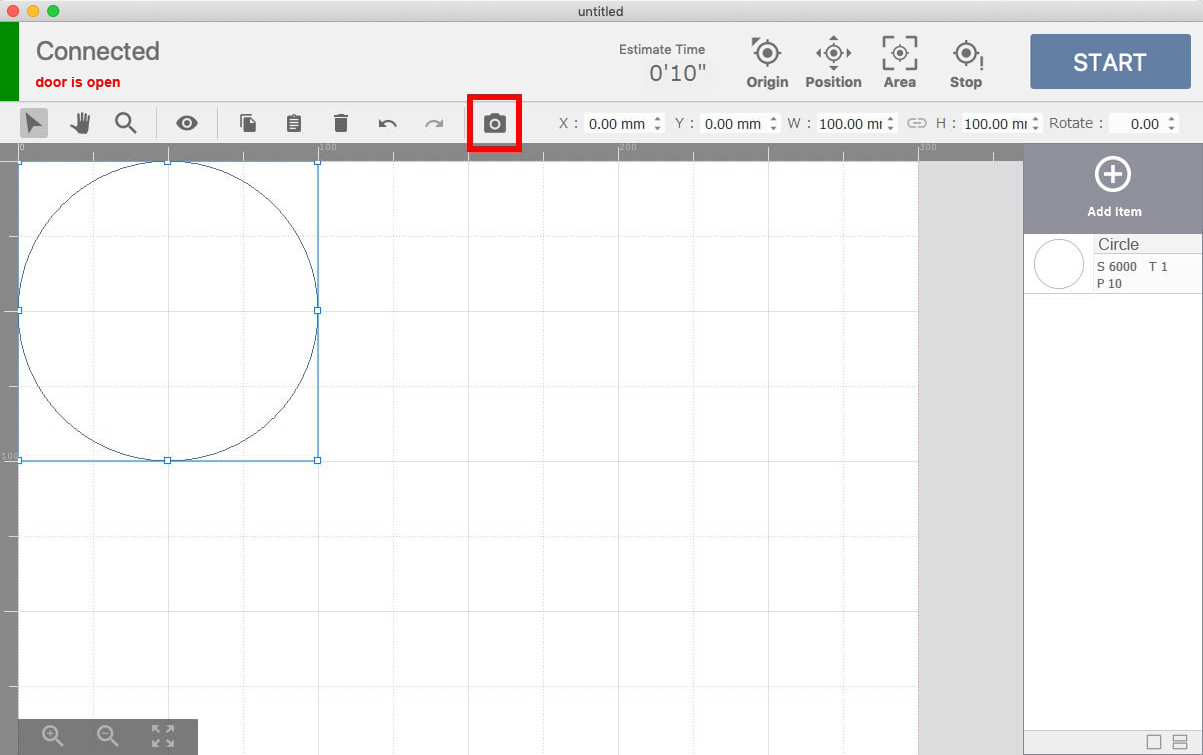
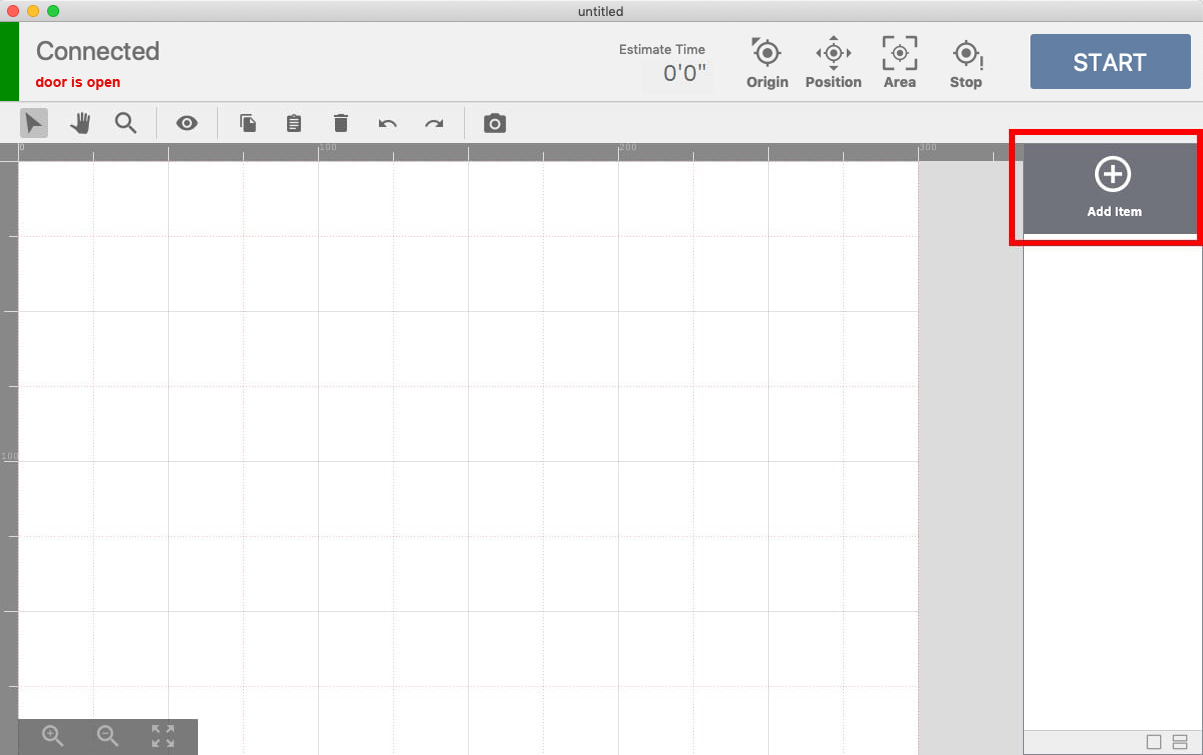
英語マニュアル修正

diff --git a/EN/Etcher_Laser/manual/first_processing_mobile.md b/EN/Etcher_Laser/manual/first_processing_mobile.md
@@ -1,62 +1,89 @@
-When you finish up setting up the software, you can start processing materials with the Etcher Laser. Prepare a material you would like to work on. (Measure the thickness of the material because you need to input the thickness of the material in the software later.)
+After the setup is complete, the material will be processed. If the following steps do not work, please check <a target="_blank" href="https://support.smartdiys.cc/hc/en-us/sections/360006255294-Problems-about-Etcher-Laser">troubleshooting.</a>
+
+## Preparation of material
+Please prepare the material. Since there is a place to input the thickness of the material in the later process, please check the thickness of the material in advance.
+
+<img src="./images/first_processing_pc_1.jpg">
 
 ## Create a project and place the material
 Tap on “Add Project” or the “+” icon on the bottom in the screen.
 <img src="./images/first_processing_mobile_1.jpg">
 
-A project will be created and it appears in the graphic area.
-Tap on a menu on the top right on the screen and select “Position”. The dialog to show the laser head is going to the original position. After you click “OK”, the laser head will move to the original position (the top left side of the working area).
+The project is created and the graphic area is displayed. Tap the menu on the top right of the app screen and tap “Return to origin”. The laser head moves to the origin (upper left).
 <img src="./images/first_processing_mobile_2.jpg">
 <img src="./images/first_processing_mobile_3.jpg">
-<img src="./images/first_processing_mobile_4.jpg">
+
 
 Place the material in the center of the work area. When placing the material, DO NOT cover the stickers for positioning (white and black squares) placed around the work area with the material.
-<img src="./images/first_processing_pc_3.jpg">
 
-The laser head will move to a certain position when you drag the image of the laser head in the screen to the position you would like to set and tap on “Move”. Use this function to move the laser head so it is above the material. When you finish moving the position of the laser head, tap on “Close”.
+<img src="./images/first_processing_pc_4.jpg">
+
+Tap the menu on the top right of the app screen and tap “Position”.
+<img src="./images/first_processing_mobile_4.jpg">
+
+A dialog to return the laser head to the origin appears. Tap OK to move the laser head to the origin (upper left).
 <img src="./images/first_processing_mobile_5.jpg">
-<img src="./images/first_processing_mobile_6.jpg">
-<img src="./images/first_processing_pc_5.jpg">
 
-## Adjust the height of the laser head
-Next, adjust the height of the laser. When you process a material with the Etcher Laser, you need to adjust the height to set the focal length depending on the thickness of the material. Take out the height adjustment jig from the box and place it on the material.
+The laser head will move to a certain position when you drag the image of the laser head in the screen to the position you would like to set and tap on “Move”. Use this function to move the laser head so it is above the material.
+<img src="./images/first_processing_mobile_6.jpg">
+<img src="./images/first_processing_mobile_7.jpg">
+<img src="./images/first_processing_pc_7.jpg">
+
+## Adjust the height of the laser
+Next, adjust the height of the laser. When you process a material with the Etcher Laser, you need to adjust the height to set the focal length depending on the thickness of the material.
+Take out the height adjustment jig from the box and place it on the material.
+
 <img src="./images/hardware_setup_11.jpg">
-<img src="./images/first_processing_pc_6.jpg">
+
+<img src="./images/first_processing_pc_8.jpg">
 
 Loosen the screw for height adjustment on the laser head, and slide the laser vertically until the bottom part of the laser head touches the height adjustment jig.
-<img src="./images/first_processing_pc_7.jpg">
-<img src="./images/first_processing_pc_8.png">
+<img src="./images/first_processing_pc_9.jpg">
 
-Tap on a menu on the top right on the screen and tap on “Origin” to move the laser back to the original position.
-<img src="./images/first_processing_mobile_20.jpg">
+<img src="./images/first_processing_pc_10.png">
+
+To prevent the laser head from tilting, close the height adjustment screw while keeping the top of the laser head in close contact with the laser head fixing unit. If the laser head is tilted, it may cause a shift in the machining position.
+<img src="./images/first_processing_pc_21.jpg">
+
+<img src="./images/first_processing_pc_22.gif">
+
+After finishing the height adjustment, tap “Close” on the application screen.
 
 ## Import data and check positioning
-Next, tap on the “+” icon on the bottom left in the screen to import your data. There are several ways to import data and different types of data, but for this example, tap on “From Assets” and select circle shape. Then the circle shape you selected will appear in the graphic area.
-<img src="./images/first_processing_mobile_7.jpg">
+Next, tap on the “+” icon on the bottom left in the screen to import your data.
 <img src="./images/first_processing_mobile_8.jpg">
-<img src="./images/first_processing_mobile_9.jpg">
 
-If you open the lid and click tap on a menu on the top right in the screen to select “Capture”, the dialog to input the thickness of the material will appear. After you input the number and click the “OK” button, the graphics area will display the material.
-If the lid is open and/or the laser head is not positioned on the origin before this step, the material will not appear on the screen properly. The stickers for positioning should not be on the screen. If the stickers are there, redo the step to capture the material by the camera.
+There are several ways to import data and different types of data, but for this example, tap on “From Assets” and select circle shape. Then the circle shape you selected will appear in the graphic area.
+<img src="./images/first_processing_mobile_9.jpg">
 <img src="./images/first_processing_mobile_10.jpg">
 <img src="./images/first_processing_mobile_11.jpg">
+
+Tap the menu and tap “Capture”.
 <img src="./images/first_processing_mobile_12.jpg">
 
-Adjust the size of the design and place it on the material. You can adjust the postion of the design when you tap on the circle shape and drag it to a position, and also you can change the size and the angle by dragging the arrow mark. Plus, you can zoom in/out the display area by pinching in/out the graphic area.
+Dialog to enter the thickness of the material is displayed. Enter a numerical value and click OK. The material is displayed in the graphic area.
 <img src="./images/first_processing_mobile_13.jpg">
 <img src="./images/first_processing_mobile_14.jpg">
 
-## Set parameters and start processing
-Next, set the parameters for the process. Tap on the item (circle shape) in the bottom area of the screen to display the dialog for parameter setting. This time, set 1500 for the speed, 50 for the power, and 1 for the number of processing times. (Please refer to the page <a target="_blank" href="https://manual.smartdiys.cc/smartdiys-creator-parameter-settings/">“SmartDIYs Creator ManualParameter settings” </a>for further information on the parameters.)
+Or when the camera marker the laser head is not located at the origin is hidden in the material, it does not display correctly (if the camera marker is not reflected in the screen is normal).
+<img src="./images/first_processing_mobile_15.jpg">
 
-After that, close the lid of the Etcher Laser and tap on the “START” button. A dialog with the estimated processing time will appear, so confirm and click the “OK” button to proceed.
+Adjust the size of the design and place it on the material. You can adjust the postion of the design when you tap on the circle shape and drag it to a position, and also you can change the size and the angle by dragging the arrow mark. Plus, you can zoom in/out the display area by pinching in/out the graphic area.
 <img src="./images/first_processing_mobile_16.jpg">
 <img src="./images/first_processing_mobile_17.jpg">
 
+## Set parameters and start processing
+Next, set the parameters for the process. Tap on the item (circle shape) in the bottom area of the screen to display the dialog for parameter setting. This time, set 1500 for the speed, 50 for the power, and 1 for the number of processing times. (Please refer to the page <a target="_blank" href="https://manual.smartdiys.cc/smartdiys-creator-parameter-settings/">“SmartDIYs Creator ManualParameter settings” </a>for further information on the parameters.)
+<img src="./images/first_processing_mobile_18.jpg">
+
+After that, close the lid of the Etcher Laser and tap on the “START” button. A dialog with the estimated processing time will appear, so confirm and click the “OK” button to proceed.
+<img src="./images/first_processing_mobile_19.jpg">
+<img src="./images/first_processing_mobile_20.jpg">
+
 The button on the bottom right of the lid on the device will turn to green, so press it to start processing. DO NOT leave the device while processing is in progress
 *If you start processing while the lid is open, the laser head will move but the laser will not irradiate.
-<img src="./images/first_processing_mobile_18.jpg">
-<img src="./images/first_processing_mobile_19.jpg">
-<img src="./images/first_processing_pc_15.jpg">
+<img src="./images/first_processing_mobile_21.jpg">
+<img src="./images/first_processing_mobile_22.jpg">
+<img src="./images/first_processing_pc_20.jpg">
 
-Further details on the software are in the manuals:<a target="_blank" href="https://manual.smartdiys.cc/smartdiys-creator-product-outline/">SmartDIYs Creator</a>
+Further details on the application are in the manuals:<a target="_blank" href="https://manual.smartdiys.cc/smartdiys-creator-product-outline/">Etcher Laser app</a>

diff --git a/EN/Etcher_Laser/manual/first_processing_pc.md b/EN/Etcher_Laser/manual/first_processing_pc.md
@@ -1,5 +1,9 @@
-When the setup is done, you can start processing materials. Prepare a material you would like to work on. (Measure the thickness of the material because you need to input the thickness of the material in the software later.)
-Check that the Etcher Laser’s power is on.
+After the setup is complete, the material will be processed. If the following steps do not work, please check <a target="_blank" href="https://support.smartdiys.cc/hc/en-us/sections/360006255294-Problems-about-Etcher-Laser">troubleshooting.</a>
+
+## Preparation of material
+Please prepare the material. Since there is a place to input the thickness of the material in the later process, please check the thickness of the material in advance.
+
+<img src="./images/first_processing_pc_1.jpg">
 
 ## Connecting the Etcher Laser to PC
 Use the USB cable enclosed with the device to connect the Etcher Laser to your PC. DO NOT use a USB hub and directly connect the devices.
@@ -7,25 +11,27 @@ Use the USB cable enclosed with the device to connect the Etcher Laser to your P
 <img src="./images/software_setup_pc.jpg">
 
 ## Launch the software and place the material
-Launch the software and start. When you launch the software for the first time, follow the instructions on the application window to fill in the settings.
+Check that the Etcher Laser is turned on and launch the software. When you start the application for the first time, follow the on-screen instructions to configure the main unit. If you have already set it, check that it is set to Setting-> User Setting-> ModelType Etcher Laser, and check the LaserType.
+
+<img src="./images/first_processing_pc_2.png">
+
 When the Etcher Laser and PC are properly connected, the software will show “Connected” on the top left side of the screen.
-<img src="./images/first_processing_pc_1.jpg">
-
 Click the “Origin” on the top of the screen, and the laser head will move to the origin (top left in the work area, default position before it starts processing.)
-
-<img src="./images/first_processing_pc_2.jpg">
-
-Place the material in the center of the work area. When placing the material, DO NOT cover the stickers for positioning (white and black squares) placed around the work area with the material.
 
 <img src="./images/first_processing_pc_3.jpg">
 
-Click the “position check” button, and the graphic area of the software will show the image of the laser head. By dragging the image to a spot, you can move the laser head. Use this function to move the laser head so it is above the material.
+
+Place the material in the center of the work area. When placing the material, DO NOT cover the stickers for positioning (white and black squares) placed around the work area with the material.
 
 <img src="./images/first_processing_pc_4.jpg">
 
-<img src="./images/first_processing_pc_16.jpg">
+Click the “position check” button, and the graphic area of the software will show the image of the laser head. By dragging the image to a spot, you can move the laser head. Use this function to move the laser head so it is above the material.
 
 <img src="./images/first_processing_pc_5.jpg">
+
+<img src="./images/first_processing_pc_6.jpg">
+
+<img src="./images/first_processing_pc_7.jpg">
 
 ## Adjust the height of the laser
 Next, adjust the height of the laser. When you process a material with the Etcher Laser, you need to adjust the height to set the focal length depending on the thickness of the material.
@@ -33,43 +39,54 @@ Take out the height adjustment jig from the box and place it on the material.
 
 <img src="./images/hardware_setup_11.jpg">
 
-<img src="./images/first_processing_pc_6.jpg">
+<img src="./images/first_processing_pc_8.jpg">
 
 Loosen the screw for height adjustment on the laser head, and slide the laser vertically until the bottom part of the laser head touches the height adjustment jig.
-<img src="./images/first_processing_pc_7.jpg">
+<img src="./images/first_processing_pc_9.jpg">
 
-<img src="./images/first_processing_pc_8.png">
+<img src="./images/first_processing_pc_10.png">
 
-When the height is adjusted, tighten the screw to set the position of the laser head. After that, click the “position check” button again to cancel the position check mode, and click the “Origin” button again to move the laser head to the original position.
+To prevent the laser head from tilting, close the height adjustment screw while keeping the top of the laser head in close contact with the laser head fixing unit. If the laser head is tilted, it may cause a shift in the machining position.
+<img src="./images/first_processing_pc_21.jpg">
+
+<img src="./images/first_processing_pc_22.gif">
+
+Click “Position” to cancel the position check. Click “Origin” to move the laser head to the origin.
 
 ## Import data and check the positioning
 Click the “Add Item” button to import your data. There are several ways to import data and different types of data, but for this example, select the asset data we provide for users. Click “Asset” on the right, select the “shape” tab, and select a circle. Click the “Import” button to place the shape in the graphic area of the software.
-
-<img src="./images/first_processing_pc_9.jpg">
-
-<img src="./images/first_processing_pc_10.jpg">
-
-Click the camera icon, the dialog to input the thickness of the material will appear. After you input the number and click the “OK” button, the graphics area will display the material.
-If the lid is closed and/or the laser head is not positioned on the origin before this step, the material will not appear on the screen properly. The stickers for positioning should not be on the screen. If the stickers are there, redo the step to capture the material by the camera.
 
 <img src="./images/first_processing_pc_11.jpg">
 
 <img src="./images/first_processing_pc_12.jpg">
 
-Adjust the size of the design and place it on the material.
+Clicking on the camera icon will bring up a dialog where you can enter the thickness of the material (you cannot click on the camera icon if the Etcher Laser door is closed. Be sure to open the door completely). Enter a numerical value and click OK. The material is displayed in the graphic area.
 
 <img src="./images/first_processing_pc_13.jpg">
+
+<img src="./images/first_processing_pc_14.png">
+
+<img src="./images/first_processing_pc_15.jpg">
+
+If the laser head is not located at the origin or the camera marker is hidden by the material, it will not be displayed correctly (it is normal if the camera alignment sticker is not visible on the screen).
+
+<img src="./images/first_processing_pc_16.png">
+
+Adjust the size of the design and place it on the material.
+
+<img src="./images/first_processing_pc_17.jpg">
 
 ## Set parameters and start processing
 Next, set the parameters for the process. Click the item (circle) on the right side of the screen to display the dialog for parameter setting. This time, set 1500 for the speed, 50 for the power, and 1 for the number of processing times. (Please refer to the page <a target="_blank" href="https://manual.smartdiys.cc/smartdiys-creator-parameter-settings/">SmartDIYs Creator ManualParameter settings</a> for further information on the parameters.)
 
 
-<img src="./images/first_processing_pc_14.jpg">
+<img src="./images/first_processing_pc_18.jpg">
 
-After that, close the lid of the Etcher Laser and click the “START” button. A dialog with precautions will appear, so confirm and click the “OK” button to proceed.
-DO NOT leave the device while processing is in progress.
+After that, close the lid of the Etcher Laser and click the “START” button. A dialog with precautions will appear, so confirm and click the “OK” button to proceed. DO NOT leave the device while processing is in progress.
 *If you start processing while the lid is open, the laser head will move but the laser will not irradiate.
 
-<img src="./images/first_processing_pc_15.jpg">
+<img src="./images/first_processing_pc_19.jpg">
+
+<img src="./images/first_processing_pc_20.jpg">
 
 Further details on the software are in the manuals:<a target="_blank" href="https://manual.smartdiys.cc/smartdiys-creator-product-outline/">SmartDIYs Creator</a>
